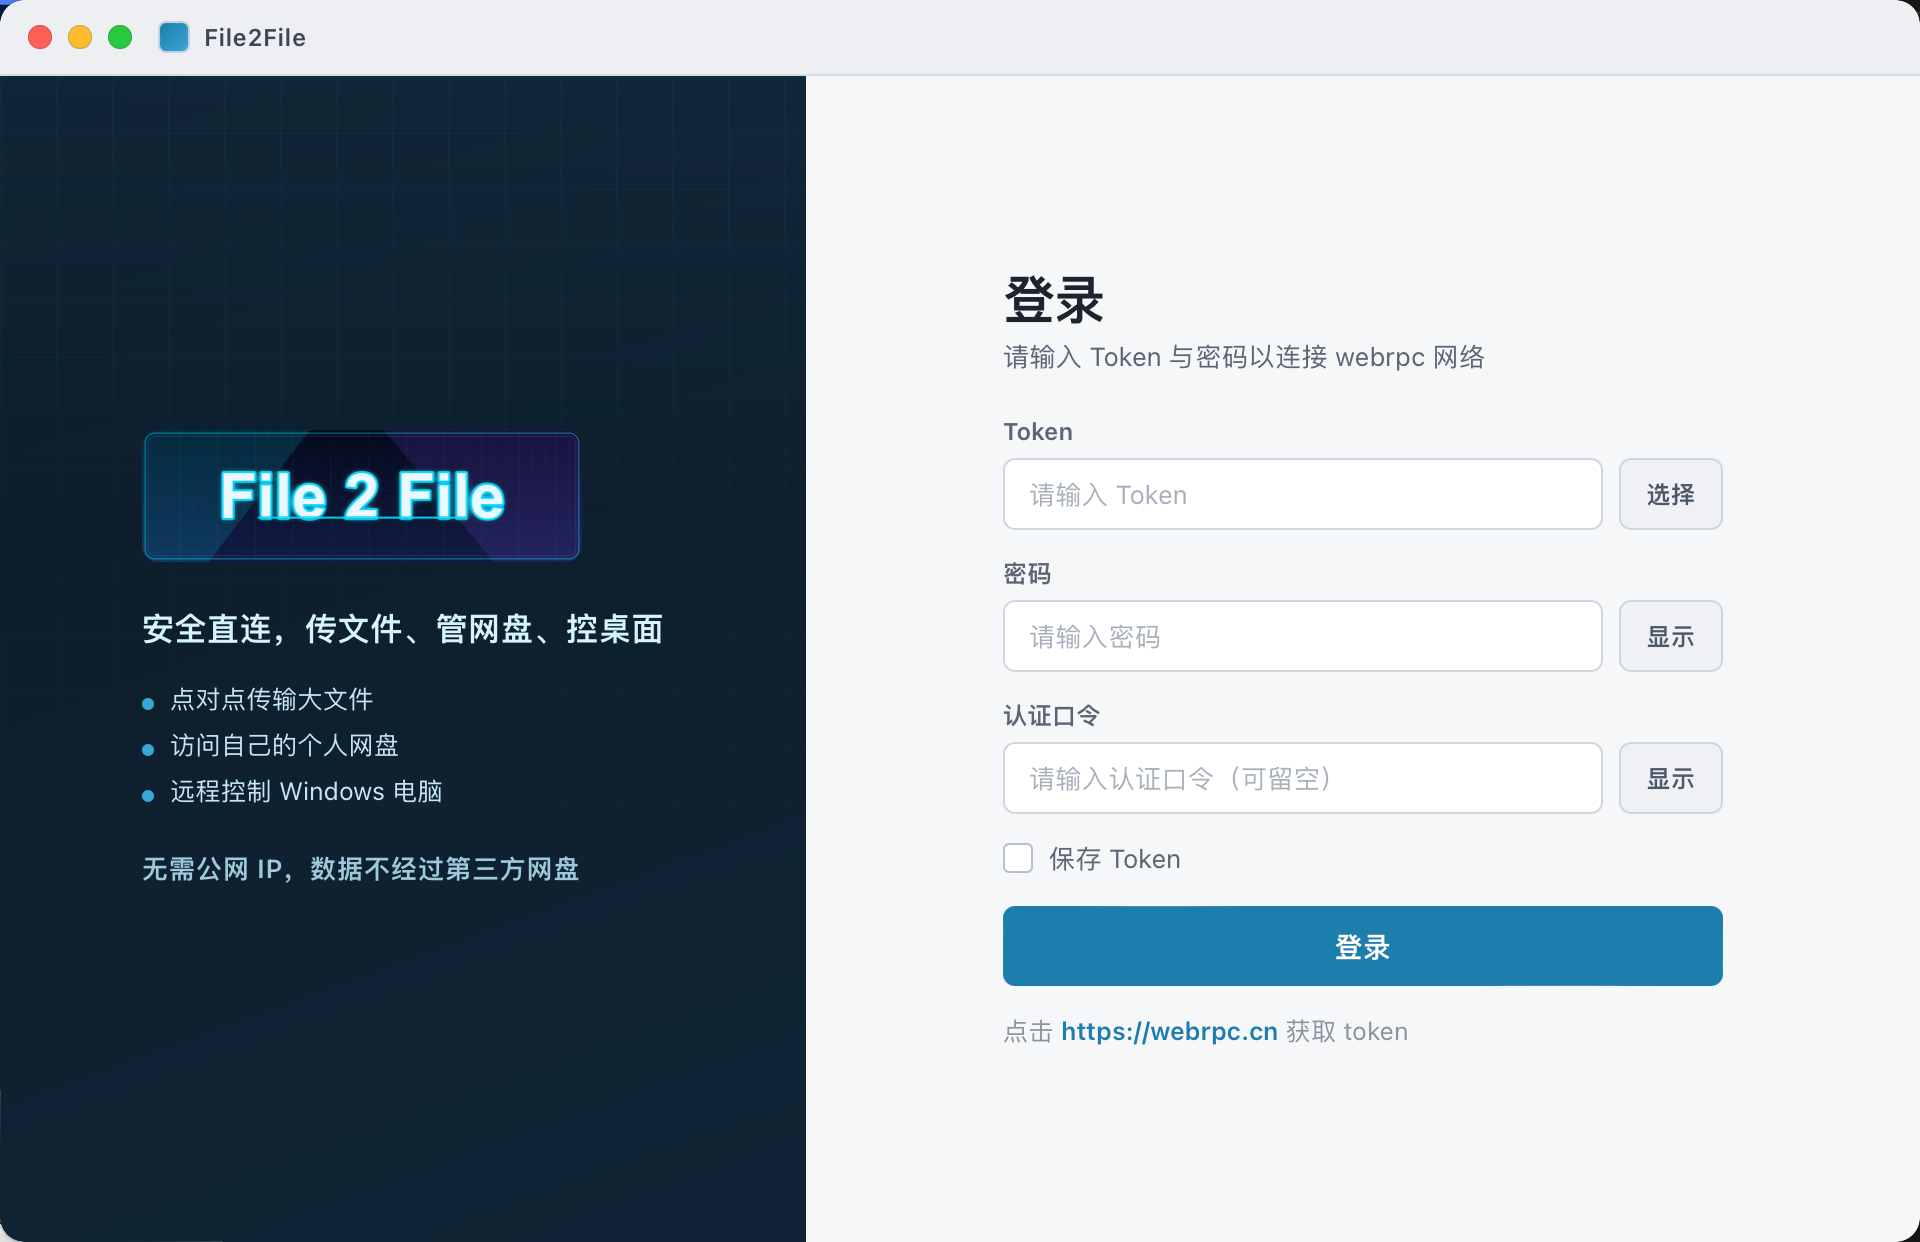
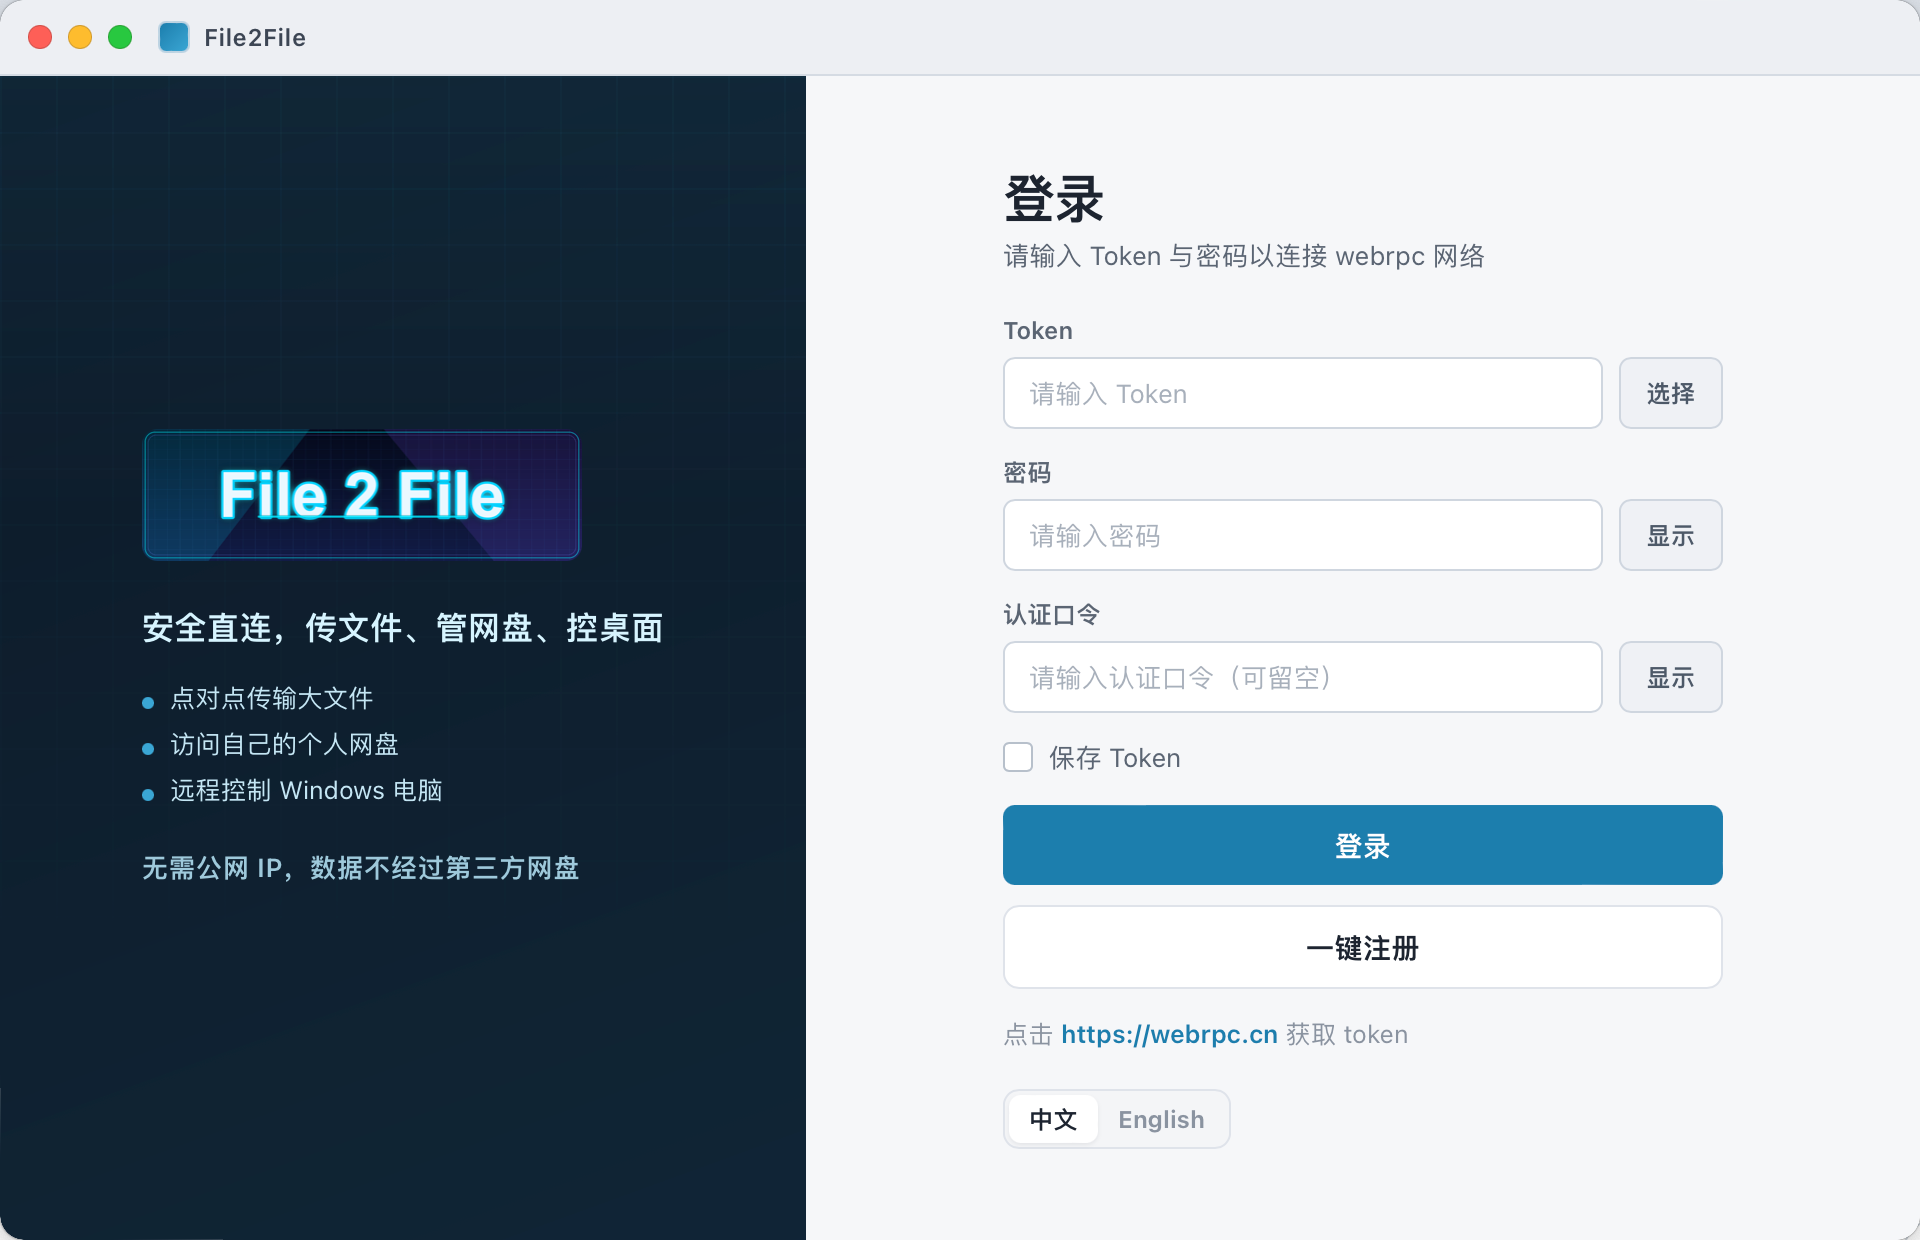
readme同步跟新说明

diff --git a/README.md b/README.md
@@ -10,7 +10,7 @@
 </p>
 
 <p align="center">
-  专为大文件、跨设备协作和个人 NAS 访问设计的桌面应用。用 webrpc Token 登录后，即可聊天、传文件、管理自己的网盘，或远程控制对方 Windows 电脑。
+  专为大文件、跨设备协作和个人 NAS 访问设计的桌面应用。登录页可<strong>一键注册</strong>并自动领取 webrpc Token，零门槛直连；也可使用已有 Token 登录，即可聊天、传文件、管理网盘或远程控制 Windows 电脑。
 </p>
 
 <p align="center">
@@ -44,6 +44,8 @@
   - [语音与截图](#语音与截图)
 - [直接下载使用](#直接下载使用)
 - [如何使用](#如何使用)
+  - [方式 A：一键注册（推荐，零门槛）](#方式-a一键注册推荐零门槛)
+  - [方式 B：使用已有 Token 登录](#方式-b使用已有-token-登录)
 - [当前限制](#当前限制)
 - [从源码构建](#从源码构建)
 - [常见问题](#常见问题)
@@ -80,7 +82,7 @@
 <p align="center">
   <img src="assets/loginp.png" alt="File2File 登录界面，使用 webrpc Token 接入网络" width="880">
 </p>
-<p align="center"><em>登录：使用 webrpc Token 接入网络</em></p>
+<p align="center"><em>登录：支持一键注册领取 Token，或填入已有 Token 直接登录</em></p>
 
 <p align="center">
   <img src="assets/sms.png" alt="File2File 会话窗口，文字消息与大文件传输进度" width="880">
@@ -171,6 +173,7 @@
 
 | 亮点 | 说明 |
 | --- | --- |
+| **零门槛上手** | 登录页 **一键注册**：自动创建 webrpc 账户、领取免费 Token 并填入登录框，确认后即可使用，无需先去官网折腾。 |
 | **P2P 直连** | 打通后直传，无需公网 IP，也不必先把文件丢到第三方网盘。 |
 | **默认加密** | 传输通道加密；Token + 可选认证口令。 |
 | **个人网盘自己管** | 目录和机器都在你手里，File2File 只负责连上去读写。 |
@@ -204,20 +207,35 @@
 
 ## 如何使用
 
-两端（或网盘服务端）都需要 [webrpc.cn](https://webrpc.cn) 的 Token。
+两端（或网盘服务端）都需要 [webrpc.cn](https://webrpc.cn) 的 **Token** 与 **密码**。File2File 提供两种登录方式，新手推荐从「一键注册」开始。
 
-### 1. 获取 Token
+### 方式 A：一键注册（推荐，零门槛）
 
-打开 [https://webrpc.cn](https://webrpc.cn) 注册，拿到 **Token** 和 **密码**。
+适合第一次使用、还没有 Token 的用户。全程在登录页完成，不必先打开浏览器注册。
 
-### 2. 登录 File2File
+1. 启动 File2File，在登录页点击 **「一键注册」**。
+2. 应用会自动完成：创建 webrpc 控制台账户 → 登录控制台 → 领取免费 Token（进度有弹窗提示）。
+3. 注册成功后，**Token、密码与随机认证口令** 会自动填入下方登录框，并弹出确认页供你查看。
+4. 点击 **「立即登录」** 进入主界面；也可点「稍后登录」先检查再手动登录。
 
-1. 启动已下载的 File2File。
-2. 填写 Token 和密码。
-3. **认证口令**可选：双方约定同一口令后，不知道口令的对端连不上你。
+**关于免费 Token**
+
+- 一键注册账户会赠送 **2 个设备 Token**，可直接用于 File2File 登录与 P2P 连接。
+- 免费 Token 带有 **有效期（约 1 个月）**；到期前顶栏会提示续费，也可通过 **「管理 Token」** 打开 [webrpc 控制台](https://www.webrpc.cn/) 查看邮箱、全部 Token 与订单。
+- 续费与套餐说明以 [webrpc.cn](https://webrpc.cn) 官网为准。
+
+> 提示：勾选「保存 Token」后，下次可在下拉列表中快速选择；可为每个已保存 Token 设置 **账号备注**，避免多账号时搞混。
+
+### 方式 B：使用已有 Token 登录
+
+若你已在 [webrpc.cn](https://webrpc.cn) 注册并持有 Token：
+
+1. 启动 File2File。
+2. 填写 **Token** 和 **密码**（可从官网控制台复制）。
+3. **认证口令** 可选：双方约定同一口令后，不知道口令的对端连不上你。
 4. 需要下次免填时勾选「保存 Token」，再点登录。
 
-顶栏会显示 Token、口令、登录时间和当前连接数。
+顶栏会显示 Token、口令、登录状态与当前连接数；一键注册用户还可看到 Token 过期时间与「管理 Token」入口。
 
 ### 3. 和另一台电脑聊天、传文件
 
@@ -315,6 +333,12 @@ cargo tauri dev
 **没有公网 IP 能用吗？**  
 可以。连接走 webrpc，不要求你暴露端口或有固定公网 IP。
 
+**一定要自己去官网注册吗？**  
+不必。登录页点 **「一键注册」** 即可自动创建账户并领取免费 Token（约 1 个月有效），填入后确认登录就能用。已有 Token 的用户仍可手动填写登录。
+
+**免费 Token 能用多久？**  
+一键注册赠送的 Token 有有效期，一般为 **约 1 个月**。到期前应用内会提醒；可在顶栏 **「管理 Token」**（一键注册用户）或访问 [webrpc.cn](https://webrpc.cn) 续费。
+
 **Token 丢了怎么办？**  
 到 [webrpc.cn](https://webrpc.cn) 按官网流程处理。不要把 Token 和口令发给不信任的人。
 
@@ -363,6 +387,6 @@ cargo tauri dev
 
 ## 关键词
 
-File2File、P2P 文件传输、点对点传文件、大文件传输、webrpc、个人网盘、个人 NAS、远程桌面、远程控制电脑、跨平台桌面客户端、免费远控、无需公网 IP
+File2File、P2P 文件传输、点对点传文件、大文件传输、webrpc、一键注册、零门槛、免费 Token、个人网盘、个人 NAS、远程桌面、远程控制电脑、跨平台桌面客户端、免费远控、无需公网 IP
 
 > File2File 只在对端之间传数据，不托管你的文件。请自行保管 Token 与口令。远程控制会看到对方屏幕，请只连接你信任的人。

diff --git a/README.en.md b/README.en.md
@@ -10,7 +10,7 @@
 </p>
 
 <p align="center">
-  A desktop app for large files, cross-device work, and access to a disk you run yourself. Log in with a webrpc Token to chat, send files, manage your own drive, or remotely control a Windows PC.
+  A desktop app for large files, cross-device work, and access to a disk you run yourself. On the login screen you can <strong>register in one click</strong> and get a webrpc Token automatically—or sign in with an existing Token—to chat, send files, manage your drive, or remotely control a Windows PC.
 </p>
 
 <p align="center">
@@ -44,6 +44,8 @@
   - [Voice and screenshots](#voice-and-screenshots)
 - [Download and run](#download-and-run)
 - [How to use](#how-to-use)
+  - [Option A: One-click register (recommended)](#option-a-one-click-register-recommended)
+  - [Option B: Sign in with an existing Token](#option-b-sign-in-with-an-existing-token)
 - [Current limits](#current-limits)
 - [Build from source](#build-from-source)
 - [FAQ](#faq)
@@ -80,7 +82,7 @@ This is not a reskinned consumer cloud disk, and it is not a paid remote-control
 <p align="center">
   <img src="assets/loginp.png" alt="File2File login screen using a webrpc Token" width="880">
 </p>
-<p align="center"><em>Login: join the webrpc network with a Token</em></p>
+<p align="center"><em>Login: one-click register for a Token, or sign in with one you already have</em></p>
 
 <p align="center">
   <img src="assets/sms.png" alt="File2File chat session with large file transfer progress" width="880">
@@ -171,6 +173,7 @@ See [Current limits](#current-limits) for what is not supported yet.
 
 | Strength | What it means |
 | --- | --- |
+| **Zero setup** | **One-click register** on the login page: creates a webrpc account, claims free Token(s), fills the form—confirm and you are in. No browser signup first. |
 | **P2P direct** | After the handshake, data goes peer to peer. No public IP. No upload-then-download detour. |
 | **Encrypted by default** | The transfer channel is encrypted. Token plus an optional passphrase. |
 | **Your disk, your path** | You pick the folder and the machine. File2File only connects and reads/writes. |
@@ -204,20 +207,35 @@ That repo includes macOS / Linux / Windows binaries and the source. When you use
 
 ## How to use
 
-Every peer (and the NAS server) needs a Token from [webrpc.cn](https://webrpc.cn).
+Every peer (and the NAS server) needs a **Token** and **password** from [webrpc.cn](https://webrpc.cn). File2File offers two paths; new users should start with one-click register.
 
-### 1. Get a Token
+### Option A: One-click register (recommended)
 
-Open [https://webrpc.cn](https://webrpc.cn), register, and copy the **Token** and **password**.
+For first-time users who do not have a Token yet. Everything happens on the login page.
 
-### 2. Log in to File2File
+1. Launch File2File and click **Quick register** (一键注册).
+2. The app automatically: creates a webrpc console account → signs in → claims your free device Token(s), with a progress dialog along the way.
+3. When done, **Token, password, and a random auth passphrase** are filled into the form and a summary dialog lets you review them.
+4. Click **Sign in now** to enter the workspace, or **Sign in later** to check the fields and log in manually.
 
-1. Launch the downloaded app.
-2. Enter Token and password.
+**About the free Token**
+
+- One-click registration grants **2 device Tokens** ready for File2File and P2P sessions.
+- Free Tokens include an **expiry date (about one month)**. The top bar warns you before expiry; one-click users can open **Manage tokens** to reach the [webrpc console](https://www.webrpc.cn/) for email, all Tokens, and renewal.
+- Plans and pricing are defined on [webrpc.cn](https://webrpc.cn).
+
+> Tip: enable **Remember token** to pick saved accounts from the dropdown later. You can set an **account label** per saved Token so multiple logins stay easy to tell apart.
+
+### Option B: Sign in with an existing Token
+
+If you already registered at [webrpc.cn](https://webrpc.cn):
+
+1. Launch File2File.
+2. Enter **Token** and **password** (from the web console).
 3. **Auth passphrase** is optional. If both sides use the same one, unknown peers cannot connect.
-4. Check **Save Token** if you want it filled next time, then log in.
+4. Check **Remember token** if you want it filled next time, then sign in.
 
-The top bar shows Token, passphrase, login time, and live session count.
+The top bar shows Token, passphrase, status, and live session count. One-click users also see Token expiry and **Manage tokens**.
 
 ### 3. Chat and send files to another PC
 
@@ -314,6 +332,12 @@ No. Use the binaries in [dist-tauri](https://github.com/xiaoming-software/File2F
 
 **Does it work without a public IP?**  
 Yes. webrpc does not require you to expose a port or own a static public address.
+
+**Do I have to sign up on the website first?**  
+No. Use **Quick register** on the login page to create an account and claim free Token(s) (about one month of validity), then confirm sign-in. Existing Token holders can still paste credentials manually.
+
+**How long does the free Token last?**  
+Free Tokens from one-click register expire after **about one month**. The app warns you beforehand; use **Manage tokens** in the top bar (one-click users) or visit [webrpc.cn](https://webrpc.cn) to renew.
 
 **What if I lose the Token?**  
 Follow the process on [webrpc.cn](https://webrpc.cn). Do not share the Token or passphrase with people you do not trust.
